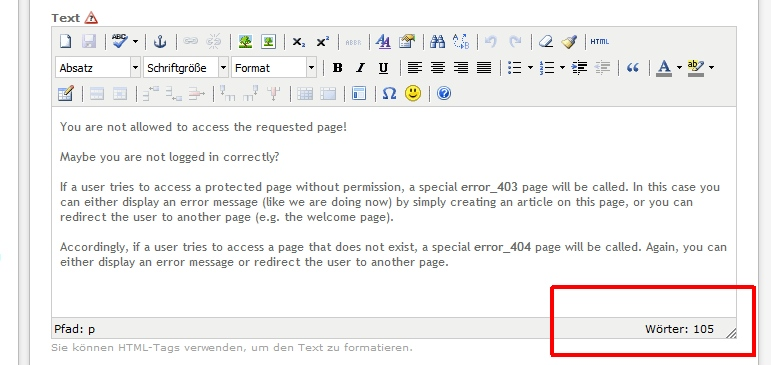
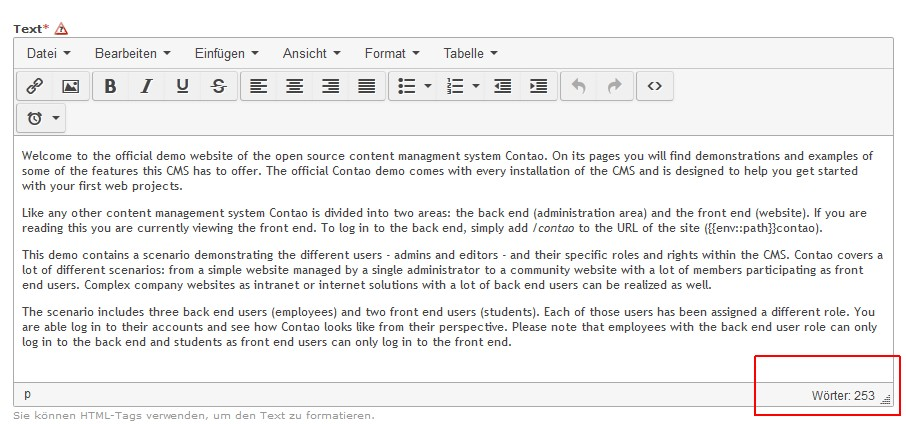
Ready for TinyMCE 4 (Contao 3.3.x)

Changed region(s): [[0.0, 0.0301, 0.9961, 0.9945], [0.9339, 0.2712, 0.9961, 0.3315], [0.965, 0.1507, 0.9961, 0.1808]]

diff --git a/assets/tinymce4/plugins/wordcount/plugin.min.js b/assets/tinymce4/plugins/wordcount/plugin.min.js
@@ -1,0 +1,1 @@
+tinymce.PluginManager.add("wordcount",function(a){function b(){a.theme.panel.find("#wordcount").text(["Words: {0}",e.getCount()])}var c,d,e=this;c=a.getParam("wordcount_countregex",/[\w\u2019\x27\-\u00C0-\u1FFF]+/g),d=a.getParam("wordcount_cleanregex",/[0-9.(),;:!?%#$?\x27\x22_+=\\\/\-]*/g),a.on("init",function(){var c=a.theme.panel&&a.theme.panel.find("#statusbar")[0];c&&window.setTimeout(function(){c.insert({type:"label",name:"wordcount",text:["Words: {0}",e.getCount()],classes:"wordcount",disabled:a.settings.readonly},0),a.on("setcontent beforeaddundo",b),a.on("keyup",function(a){32==a.keyCode&&b()})},0)}),e.getCount=function(){var b=a.getContent({format:"raw"}),e=0;if(b){b=b.replace(/\.\.\./g," "),b=b.replace(/<.[^<>]*?>/g," ").replace(/&nbsp;|&#160;/gi," "),b=b.replace(/(\w+)(&#?[a-z0-9]+;)+(\w+)/i,"$1$3").replace(/&.+?;/g," "),b=b.replace(d,"");var f=b.match(c);f&&(e=f.length)}return e}});

diff --git a/system/modules/TinyMceWordCount/assets/mce_wordcount-fix.css b/system/modules/TinyMceWordCount/assets/mce_wordcount-fix.css
@@ -1,0 +1,1 @@
+.mce-statusbar .mce-wordcount {font-size: 12px; padding-top: 3px; right: 10px;}

diff --git a/system/modules/TinyMceWordCount/config/config.php b/system/modules/TinyMceWordCount/config/config.php
@@ -1,8 +1,8 @@
-<?php if (!defined('TL_ROOT')) die('You cannot access this file directly!');
+<?php
 
 /**
  * Contao Open Source CMS
- * Copyright (C) 2005-2014 Leo Feyer
+ * Copyright (C) 2005-2015 Leo Feyer
  *
  * Formerly known as TYPOlight Open Source CMS.
  *
@@ -21,13 +21,17 @@
  * Software Foundation website at <http://www.gnu.org/licenses/>.
  *
  * PHP version 5
- * @copyright  Cliff Parnitzky 2012-2014
+ * @copyright  Cliff Parnitzky 2012-2015
  * @author     Cliff Parnitzky
  * @package    TinyMceWordCount
  * @license    LGPL
  * @filesource
  */
 
+// Adding plugin
 $GLOBALS['TINY_PLUGINS'][] = 'wordcount';
+
+// Adding css fix
+$GLOBALS['TL_CSS'][] = 'system/modules/TinyMceWordCount/assets/mce_wordcount-fix.css';
  
 ?>

diff --git a/system/modules/TinyMceWordCount/languages/de/modules.php b/system/modules/TinyMceWordCount/languages/de/modules.php
@@ -1,8 +1,8 @@
-<?php if (!defined('TL_ROOT')) die('You cannot access this file directly!');
+<?php
 
 /**
  * Contao Open Source CMS
- * Copyright (C) 2005-2014 Leo Feyer
+ * Copyright (C) 2005-2015 Leo Feyer
  *
  * Formerly known as TYPOlight Open Source CMS.
  *
@@ -21,7 +21,7 @@
  * Software Foundation website at <http://www.gnu.org/licenses/>.
  *
  * PHP version 5
- * @copyright  Cliff Parnitzky 2012-2014
+ * @copyright  Cliff Parnitzky 2012-2015
  * @author     Cliff Parnitzky
  * @package    TinyMceWordCount
  * @license    LGPL

diff --git a/system/modules/TinyMceWordCount/languages/en/modules.php b/system/modules/TinyMceWordCount/languages/en/modules.php
@@ -1,8 +1,8 @@
-<?php if (!defined('TL_ROOT')) die('You cannot access this file directly!');
+<?php
 
 /**
  * Contao Open Source CMS
- * Copyright (C) 2005-2014 Leo Feyer
+ * Copyright (C) 2005-2015 Leo Feyer
  *
  * Formerly known as TYPOlight Open Source CMS.
  *
@@ -21,7 +21,7 @@
  * Software Foundation website at <http://www.gnu.org/licenses/>.
  *
  * PHP version 5
- * @copyright  Cliff Parnitzky 2012-2014
+ * @copyright  Cliff Parnitzky 2012-2015
  * @author     Cliff Parnitzky
  * @package    TinyMceWordCount
  * @license    LGPL

diff --git a/system/modules/TinyMceWordCount/config/autoload.php b/system/modules/TinyMceWordCount/config/autoload.php
@@ -1,0 +1,30 @@
+<?php
+
+/**
+ * Contao Open Source CMS
+ *
+ * Copyright (c) 2005-2015 Leo Feyer
+ *
+ * @package TinyMceWordCount
+ * @link    https://contao.org
+ * @license http://www.gnu.org/licenses/lgpl-3.0.html LGPL
+ */
+
+
+/**
+ * Register the namespaces
+ */
+ClassLoader::addNamespaces(array
+(
+	'TinyMceWordCount',
+));
+
+
+/**
+ * Register the classes
+ */
+ClassLoader::addClasses(array
+(
+	// Classes
+	'TinyMceWordCount\TinyMceWordCount' => 'system/modules/TinyMceWordCount/classes/TinyMceWordCount.php',
+));

diff --git a/README.md b/README.md
@@ -1,3 +1,7 @@
+[![Latest Version on Packagist](http://img.shields.io/packagist/v/cliffparnitzky/tiny-mce-word-count.svg?style=flat)](https://packagist.org/packages/cliffparnitzky/tiny-mce-word-count)
+[![Installations via composer per month](http://img.shields.io/packagist/dm/cliffparnitzky/tiny-mce-word-count.svg?style=flat)](https://packagist.org/packages/cliffparnitzky/tiny-mce-word-count)
+[![Installations via composer total](http://img.shields.io/packagist/dt/cliffparnitzky/tiny-mce-word-count.svg?style=flat)](https://packagist.org/packages/cliffparnitzky/tiny-mce-word-count)
+
 Contao Extension: TinyMceWordCount
 ==================================
 
@@ -5,12 +9,15 @@ Special TinyMCE plugin that adds word count functionality.
 
 The sources of this plugin could be found [here](http://www.tinymce.com/wiki.php/Plugin:wordcount).
 
+Now for TinyMCE 4.
+
 
 Installation
 ------------
 
-The extension is not published in contao extension repository.
-Install it manually or via [composer](https://packagist.org/packages/cliffparnitzky/tiny-mce-word-count).
+Install the extension via composer: [cliffparnitzky/tiny-mce-word-count](https://packagist.org/packages/cliffparnitzky/tiny-mce-word-count).
+
+If you prefer to install it manually, download the latest release here: https://github.com/cliffparnitzky/TinyMceWordCount/releases
 
 
 Tracker
@@ -22,10 +29,8 @@ https://github.com/cliffparnitzky/TinyMceWordCount/issues
 Compatibility
 -------------
 
-- min. version: Contao 3.0.x
-- max. version: Contao 3.2.x
-
-(For Contao 2 look at the [master_c2 Branch](https://github.com/cliffparnitzky/TinyMceWordCount/tree/master_c2))
+- min. Contao version: >= 3.3.0
+- max. Contao version: <  3.5.0
 
 
 Dependency
@@ -37,4 +42,4 @@ Dependency
 Screenshot
 ----------
 
-![Screenshot](https://raw.github.com/cliffparnitzky/TinyMceWordCount/master/screenshot.jpg)
+![Screenshot](screenshot.jpg)
